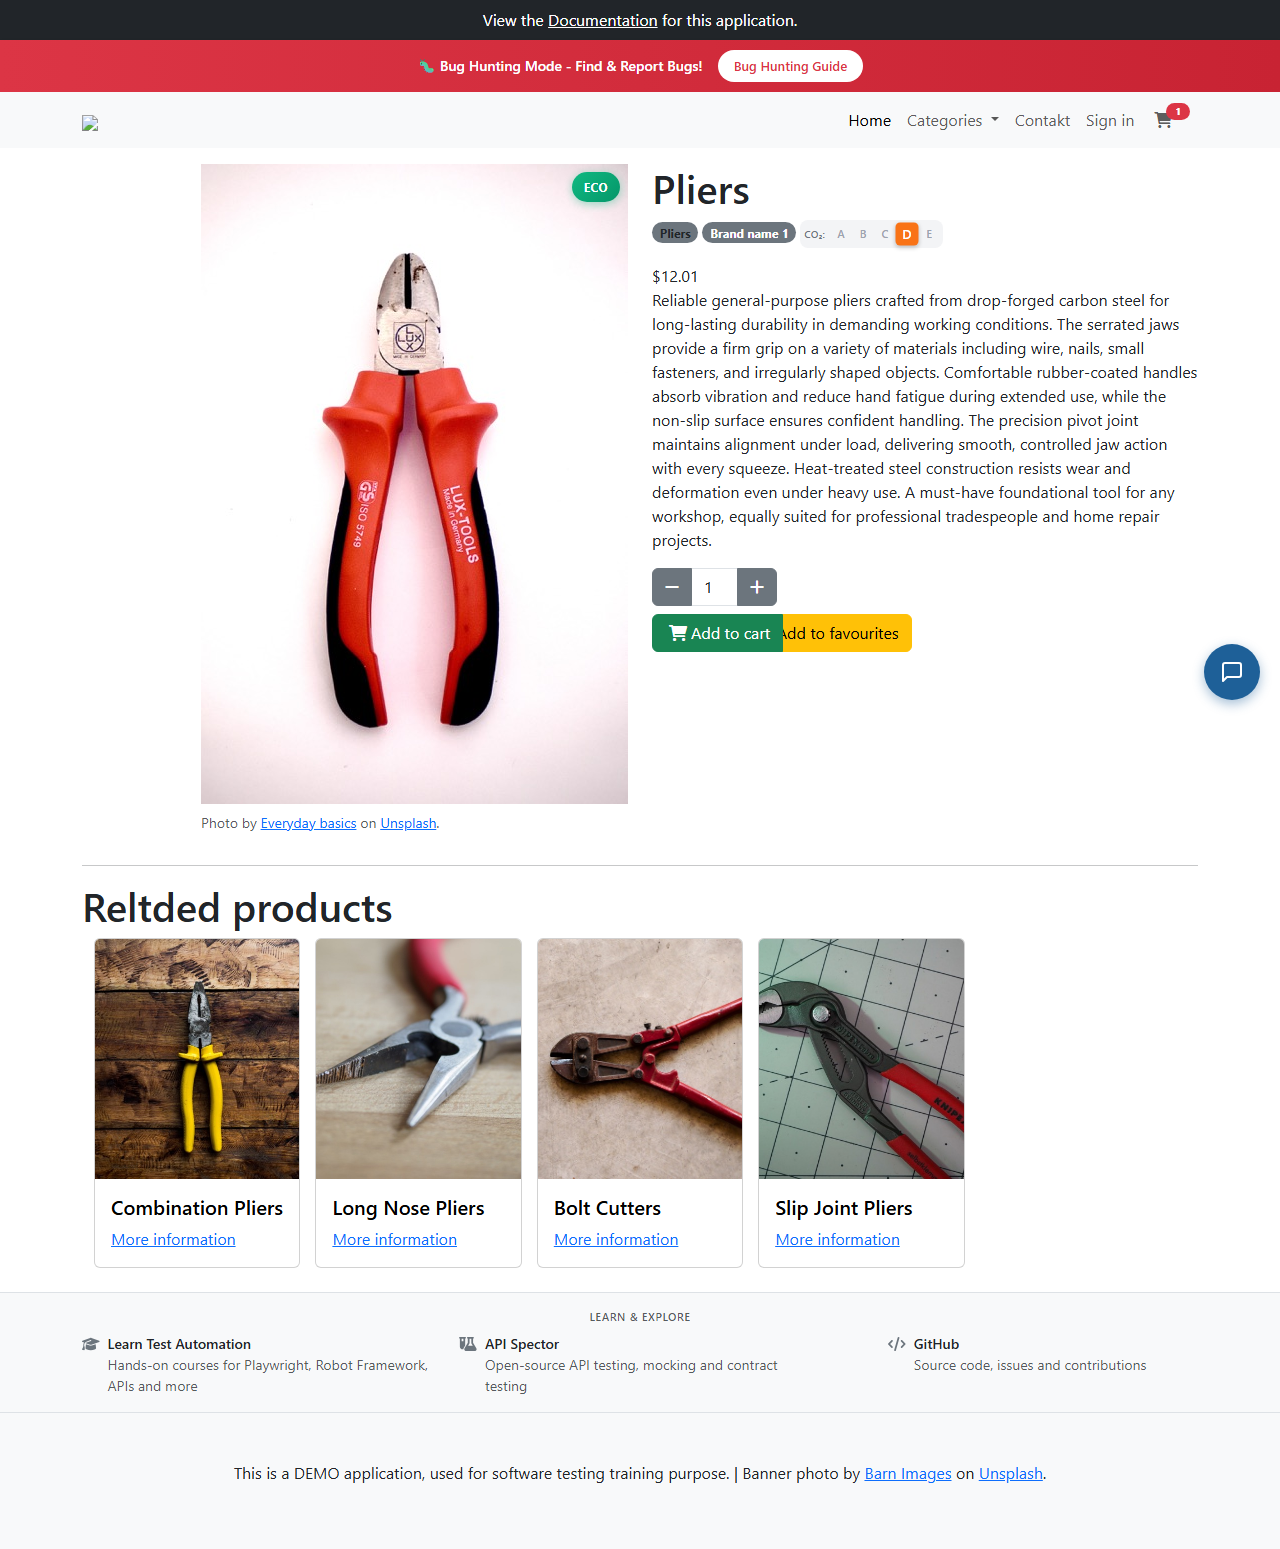
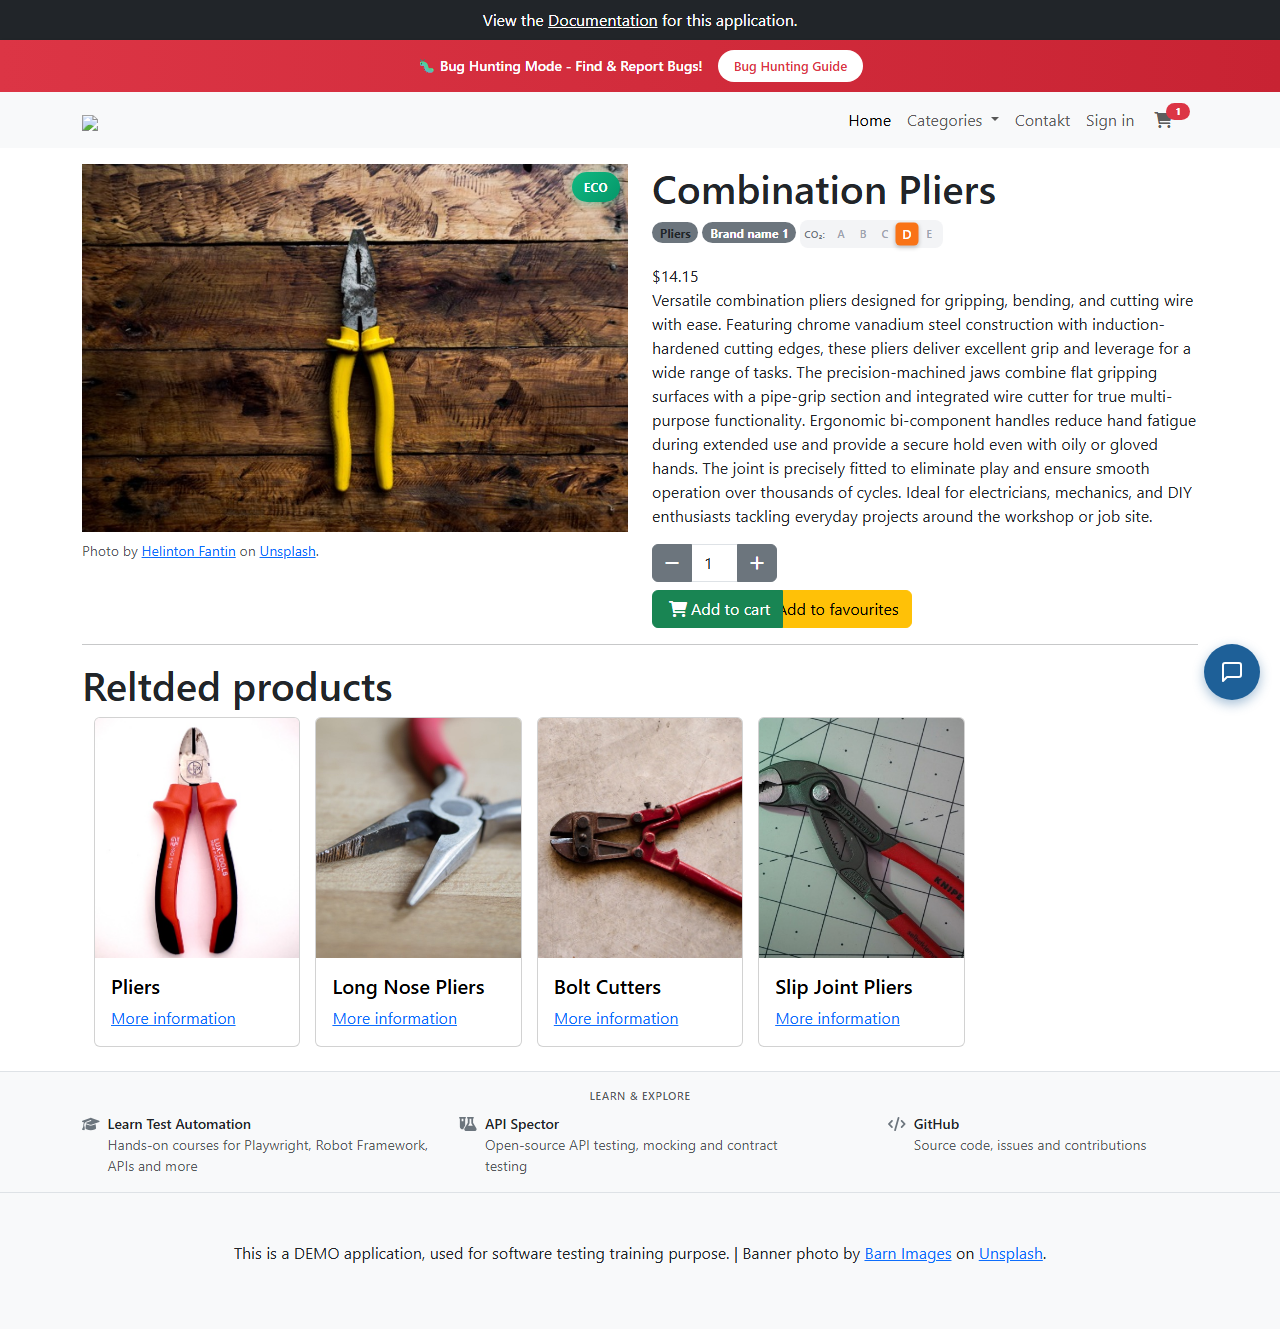
Finalize Level 2 Toolshop automation testing

diff --git a/level2-toolshop/tests/test_cart.py b/level2-toolshop/tests/test_cart.py
@@ -36,27 +36,36 @@ def test_product_is_added_to_cart(page, shop_base_url):
         timeout=30000
     )
 
-    # Step 4: Select the second product
-    second_product = product_cards.nth(1)
+    # Step 4: Find Combination Pliers
+    product_name = ""
 
-    # Step 5: Get product name
-    product_name = second_product.locator(
-        '[data-test="product-name"]'
-    ).inner_text().strip()
+    for index in range(product_cards.count()):
+        product = product_cards.nth(index)
+
+        name = product.locator(
+            '[data-test="product-name"]'
+        ).inner_text().strip()
+
+        if name == "Combination Pliers":
+            product_name = name
+            product.click()
+            break
+
+    # Step 5: Verify that the product was found
+    assert product_name == "Combination Pliers", (
+        "Combination Pliers product was not found"
+    )
 
     print("\nSelected product:", product_name)
 
-    # Step 6: Open product details
-    second_product.click()
-
-    # Step 7: Get product price
+    # Step 6: Get product price
     product_price = page.locator(
         '[data-test="unit-price"]'
     ).inner_text().strip()
 
     print("Product price:", product_price)
 
-    # Step 8: Click Add to Cart
+    # Step 7: Click Add to Cart
     add_to_cart_button = page.locator(
         '[data-test="add-to-cart"]'
     )
@@ -66,7 +75,7 @@ def test_product_is_added_to_cart(page, shop_base_url):
 
     add_to_cart_button.click()
 
-    # Step 9: Open shopping cart
+    # Step 8: Open shopping cart
     cart_link = page.locator(
         '[data-test="nav-cart"]'
     )
@@ -74,34 +83,34 @@ def test_product_is_added_to_cart(page, shop_base_url):
     expect(cart_link).to_be_visible()
     cart_link.click()
 
-    # Step 10: Verify product name in cart
+    # Step 9: Verify product name in cart
     expect(
         page.locator('[data-test="product-title"]')
     ).to_have_text(product_name, timeout=15000)
 
-    # Step 11: Verify product quantity
+    # Step 10: Verify product quantity
     expect(
         page.locator('[data-test="product-quantity"]')
     ).to_have_value("1")
 
-    # Step 12: Verify product price
+    # Step 11: Verify product price
     expect(
         page.locator('[data-test="product-price"]')
     ).to_contain_text(product_price)
 
-    # Step 13: Capture evidence before checking line total
+    # Step 12: Capture evidence before checking line total
     take_bug_screenshot(
         page,
         shop_base_url,
         "cart-incorrect-line-total.png"
     )
 
-    # Step 14: Verify line total
+    # Step 13: Verify line total
     expect(
         page.locator('[data-test="line-price"]')
     ).to_contain_text(product_price)
 
-    # Step 15: Verify cart total
+    # Step 14: Verify cart total
     expect(
         page.locator('[data-test="cart-total"]')
     ).to_contain_text(product_price)
@@ -133,11 +142,25 @@ def test_add_to_cart_success_notification(page, shop_base_url):
         timeout=30000
     )
 
-    # Step 4: Select the second product
-    second_product = product_cards.nth(1)
+    # Step 4: Find and open Combination Pliers
+    product_found = False
 
-    # Step 5: Open product details
-    second_product.click()
+    for index in range(product_cards.count()):
+        product = product_cards.nth(index)
+
+        name = product.locator(
+            '[data-test="product-name"]'
+        ).inner_text().strip()
+
+        if name == "Combination Pliers":
+            product.click()
+            product_found = True
+            break
+
+    # Step 5: Verify that the product was found
+    assert product_found, (
+        "Combination Pliers product was not found"
+    )
 
     # Step 6: Locate Add to Cart button
     add_to_cart_button = page.locator(

diff --git a/level2-toolshop/tests/test_product_listing.py b/level2-toolshop/tests/test_product_listing.py
@@ -2,20 +2,29 @@
 from playwright.sync_api import expect
 
 
+# Test Case 1: Verify product listing is visible
 def test_product_listing_is_visible(page, shop_base_url):
 
-    # Step 1: Open the actual shop route
+    # Step 1: Open the actual Toolshop homepage
     shop_url = f"{shop_base_url.rstrip('/')}/#/"
-    page.goto(shop_url)
+    page.goto(
+        shop_url,
+        wait_until="domcontentloaded",
+        timeout=60000
+    )
 
     # Step 2: Locate all product cards
-    products = page.locator('[data-test^="product-"]')
+    products = page.locator(
+        'a[data-test^="product-"]'
+    )
 
-    # Step 3: Verify that the first product is visible
+    # Step 3: Wait for the first product to appear
     expect(products.first).to_be_visible(timeout=15000)
 
-    # Step 4: Verify that products exist
-    assert products.count() > 0
+    # Step 4: Verify that products are displayed
+    assert products.count() > 0, "No products were displayed"
 
-    # Step 5: Display the number of products
-    print("Products found:", products.count())
+    # Step 5: Display the total number of products
+    print("\nProducts found:", products.count())
+
+    print("\nProduct listing verified successfully!")

diff --git a/level2-toolshop/README.md b/level2-toolshop/README.md
@@ -99,7 +99,7 @@ level2-toolshop/
 Clone the repository:
 
 ```bash
-git clone <your-github-repository-url>
+git clone https://github.com/AyeshaCheulkar/PEPL-Software-Testing-Assignment
 ```
 
 Navigate to the project folder:
@@ -148,30 +148,54 @@ pytest tests/test_contact.py -v -s --shop-base-url=https://with-bugs.practicesof
 
 ## 7. Test Execution Results
 
-### Contact Form Test Results
+The complete automated test suite contains 19 test cases and was executed against both application builds.
+
+### 7.1 Overall Test Results
+
+| Test Environment | Total Tests | Passed | Failed |
+|---|---:|---:|---:|
+| Reference Build | 19 | 19 | 0 |
+| Bug Build | 19 | 13 | 6 |
+
+**Reference Build:** All 19 test cases passed successfully.
+
+**Bug Build:** 13 test cases passed and 6 test cases failed, exposing the identified application defects.
+
+### 7.2 Feature-wise Test Results
+
+| Functionality | Reference Build | Bug Build |
+|---|---:|---:|
+| Cart | 2 passed | 2 failed |
+| Contact Form | 9 passed | 4 failed, 5 passed |
+| Homepage | 1 passed | 1 passed |
+| Product Details | 1 passed | 1 passed |
+| Product Listing | 1 passed | 1 passed |
+| Search | 1 passed | 1 passed |
+| Sorting | 4 passed | 4 passed |
+| **Total** | **19 passed** | **13 passed, 6 failed** |
+
+### 7.3 Contact Form Test Results
 
 | Test Environment | Passed | Failed |
 |---|---:|---:|
 | Reference Build | 9 | 0 |
 | Bug Build | 5 | 4 |
 
-The Reference Build passed all nine Contact Form test cases.
-
 The Bug Build produced four failures, exposing differences in subject dropdown options, attachment instructions, file input restrictions and subject validation.
 
-**Note:** The valid submission and PDF attachment tests are exploratory tests that currently print the page result. Their passing pytest status does not independently establish successful form submission or PDF acceptance.
+**Note:** The valid submission and PDF attachment submission tests are exploratory tests that currently print the page result without asserting successful submission or PDF acceptance. Their passing pytest status does not independently establish successful form submission or PDF acceptance.
 
-### Identified Defects
+### 7.4 Identified Defects
 
 | Bug ID | Description | Severity |
 |---|---|---|
-| BUG-001 | Incorrect cart line total | High (provisional) |
-| BUG-002 | Missing Add to Cart success notification | Medium (provisional) |
-| BUG-005 | Unexpected errors in Contact subject dropdown | Medium (provisional) |
-| BUG-006 | Missing file-type restriction on attachment input | Medium (provisional) |
-| BUG-007 | Contact form does not recognise selected subject | Medium (provisional) |
+| BUG-001 | Incorrect cart line total | High |
+| BUG-002 | Missing Add to Cart success notification | Medium |
+| BUG-005 | Incorrect contact subject dropdown options | Medium |
+| BUG-006 | Incorrect attachment instructions and missing file input restriction | Medium |
+| BUG-007 | Contact form does not recognise the selected subject | Medium |
 
-Detailed reproduction steps, expected results, actual results and evidence are documented in the `bug-reports/` directory.
+Detailed reproduction steps, expected results, actual results, impact and supporting evidence are documented in the `bug-reports/` directory.
 
 ## 8. Screenshots and Reports
 
@@ -193,4 +217,8 @@ This project demonstrates functional automation testing using Python, Playwright
 
 The test suite covers major Toolshop functionalities, including product listing, sorting, search, product details, shopping cart and contact form operations.
 
-By executing the same tests against the Reference Build and Bug Build, differences in expected and actual application behaviour can be identified and documented with supporting evidence.
+By executing the same automated tests against the Reference Build and Bug Build, differences in expected and actual application behaviour were identified and documented with supporting screenshots and defect reports.
+
+The Reference Build passed all 19 test cases, while the Bug Build produced 6 failures that exposed 5 documented defects.
+
+This project demonstrates the use of automated functional testing, test assertions, cross-build comparison, defect identification and evidence-based bug reporting.

diff --git a/level2-toolshop/bug-reports/BUG-007-contact-subject-validation.md b/level2-toolshop/bug-reports/BUG-007-contact-subject-validation.md
@@ -4,16 +4,21 @@
 
 **Module:** Contact Form
 
-**Environment:** Bug build – https://with-bugs.practicesoftwaretesting.com
+**Environment:** Bug Build – https://with-bugs.practicesoftwaretesting.com
+
+**Status:** Open
 
 ### Description
+
 The Contact Form displays a "Subject is required" validation error even after the user selects a valid subject, such as "Customer service".
 
 ### Preconditions
+
 - Contact page is accessible.
-- User is on the bug build.
+- User is on the Bug Build.
 
 ### Steps to Reproduce
+
 1. Open the Contact page.
 2. Enter a valid first name.
 3. Enter a valid last name.
@@ -23,19 +28,24 @@ The Contact Form displays a "Subject is required" validation error even after th
 7. Click Send.
 
 ### Expected Result
+
 The selected subject should be recognised as valid, and the contact form should submit successfully with a confirmation message.
 
 ### Actual Result
+
 The dropdown shows "Customer service" as selected, but the application displays "Subject is required" and does not submit the form.
 
 ### Evidence
+
 - Screenshot: `screenshots/contact-subject-validation.png`
 - Automated test: `test_contact_subject_selection`
-- Reference build: Passed.
-- Bug build: Failed.
+- Reference Build: Passed.
+- Bug Build: Failed.
 
 ### Impact
+
 Users may be unable to submit contact enquiries even after completing all required fields correctly.
 
 ### Status
-Reproducible on the bug build.
+
+Reproducible on the Bug Build.
